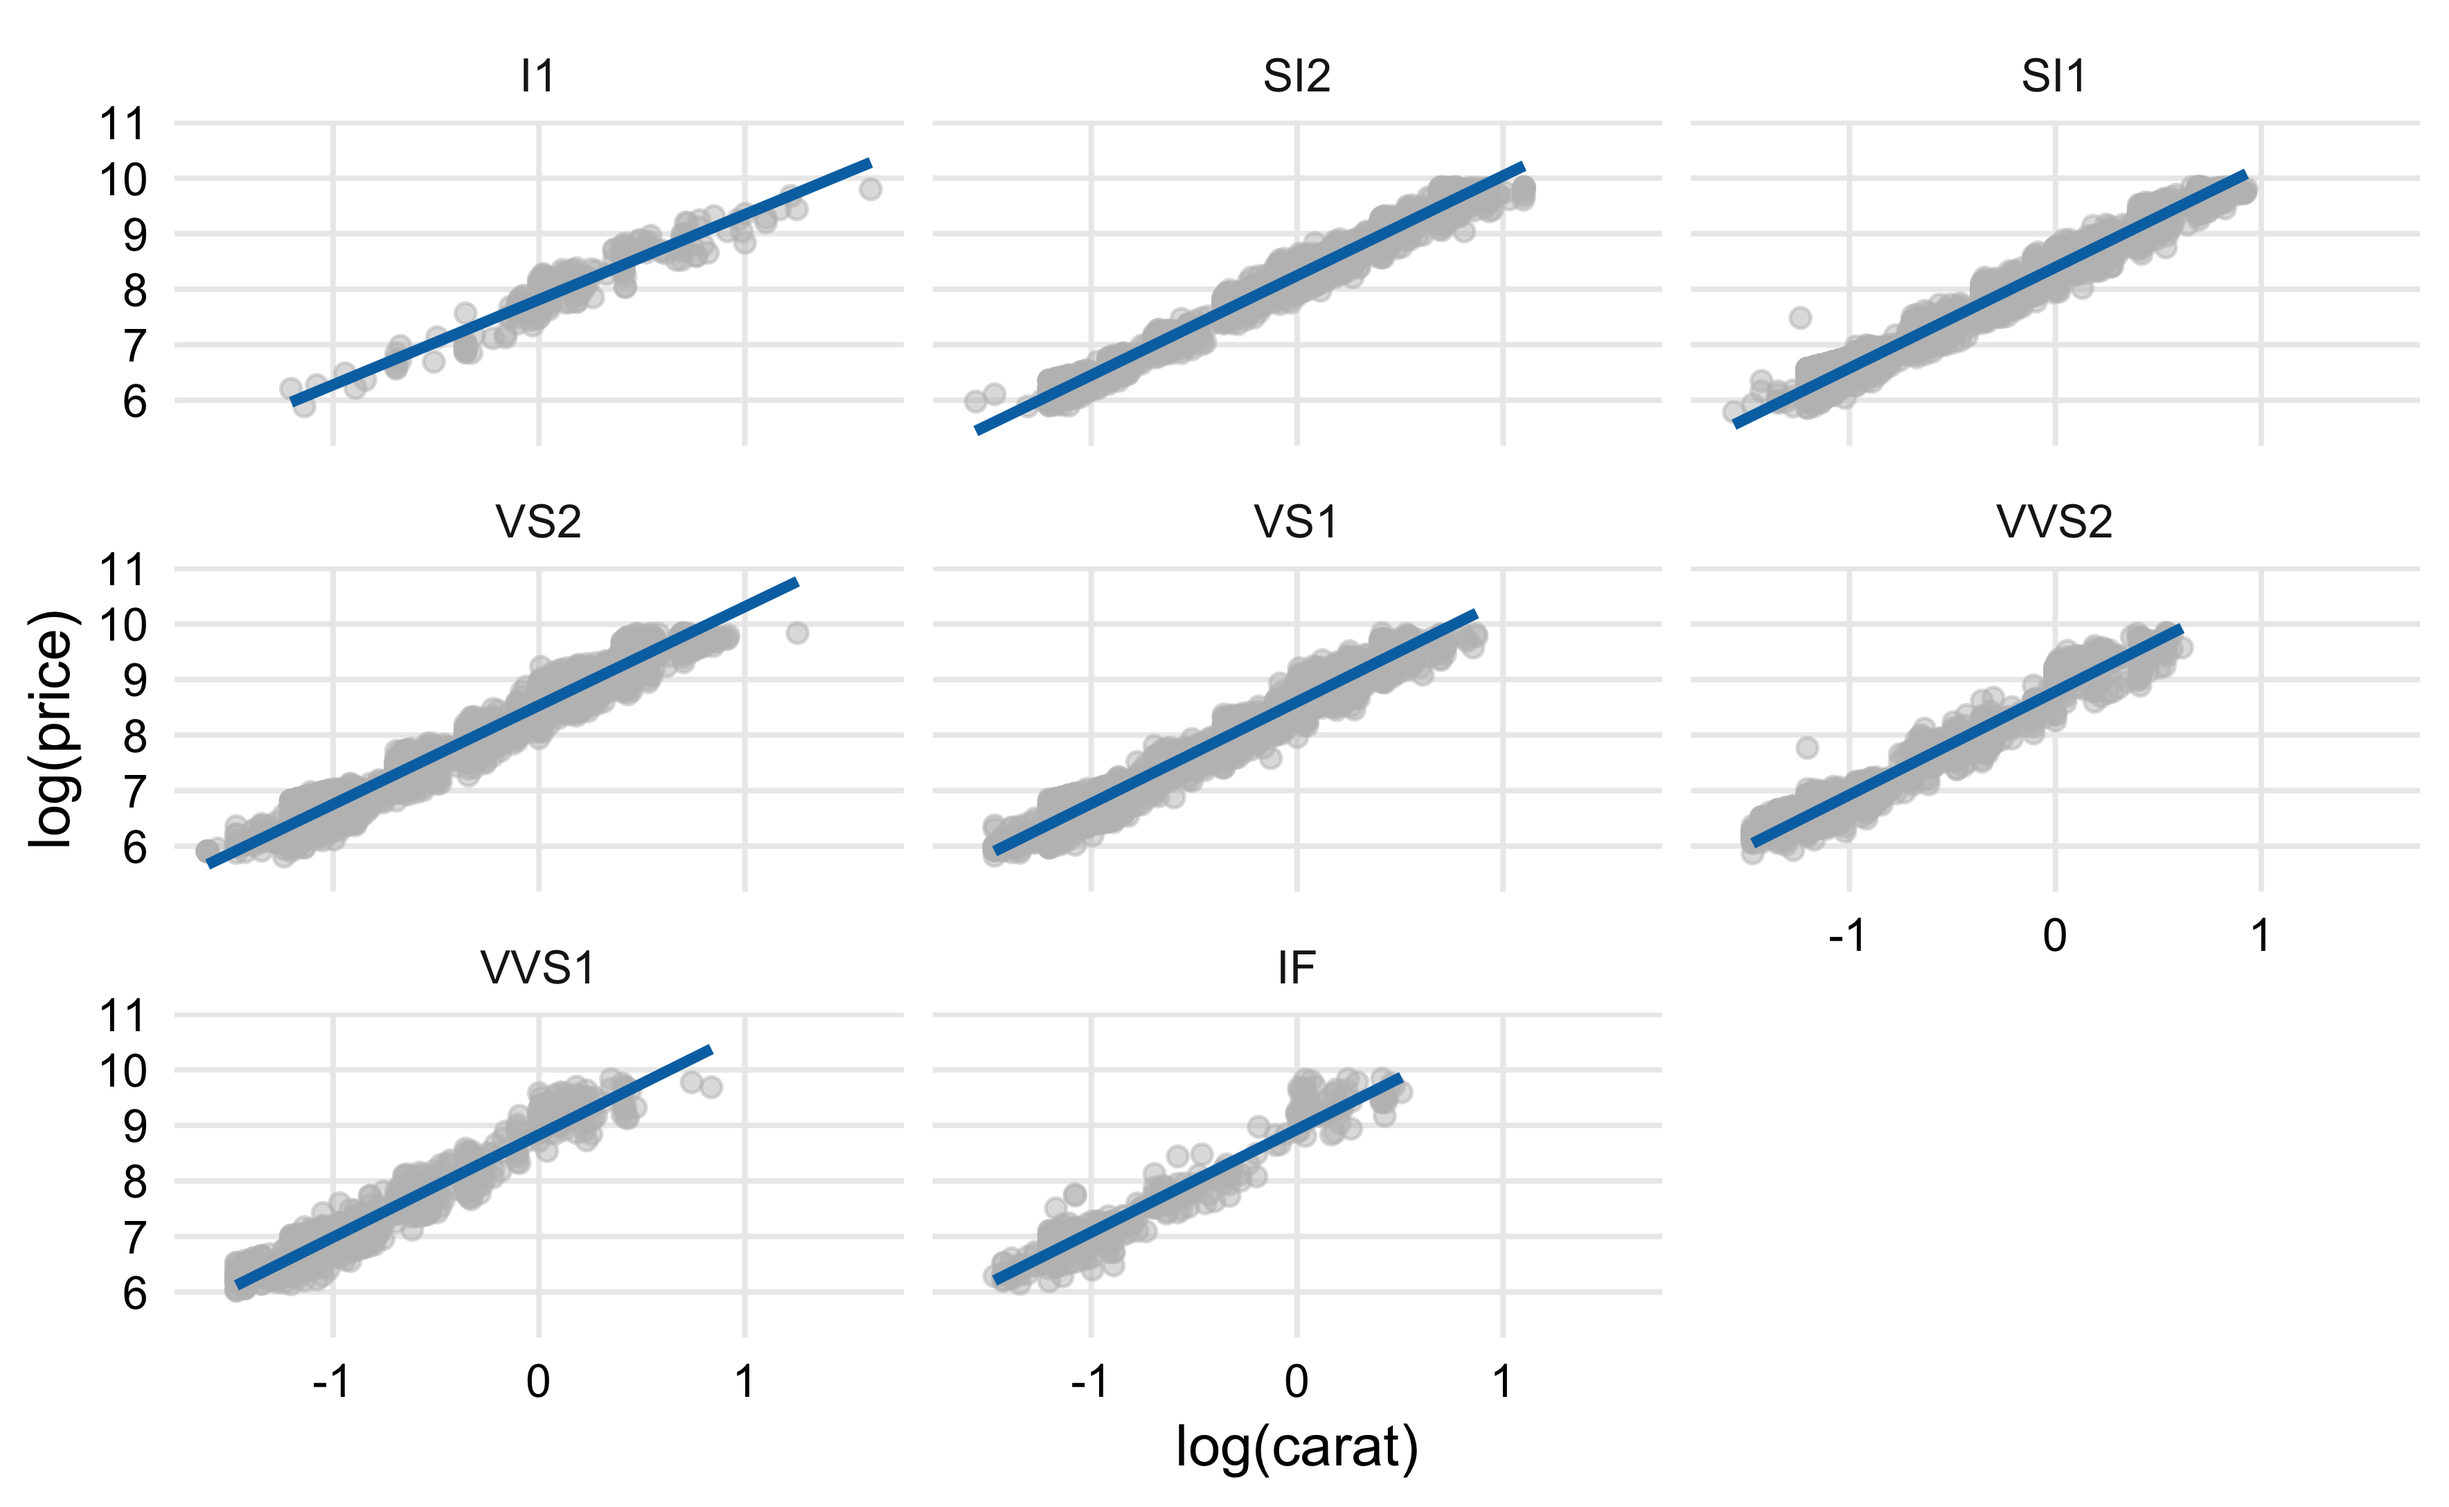
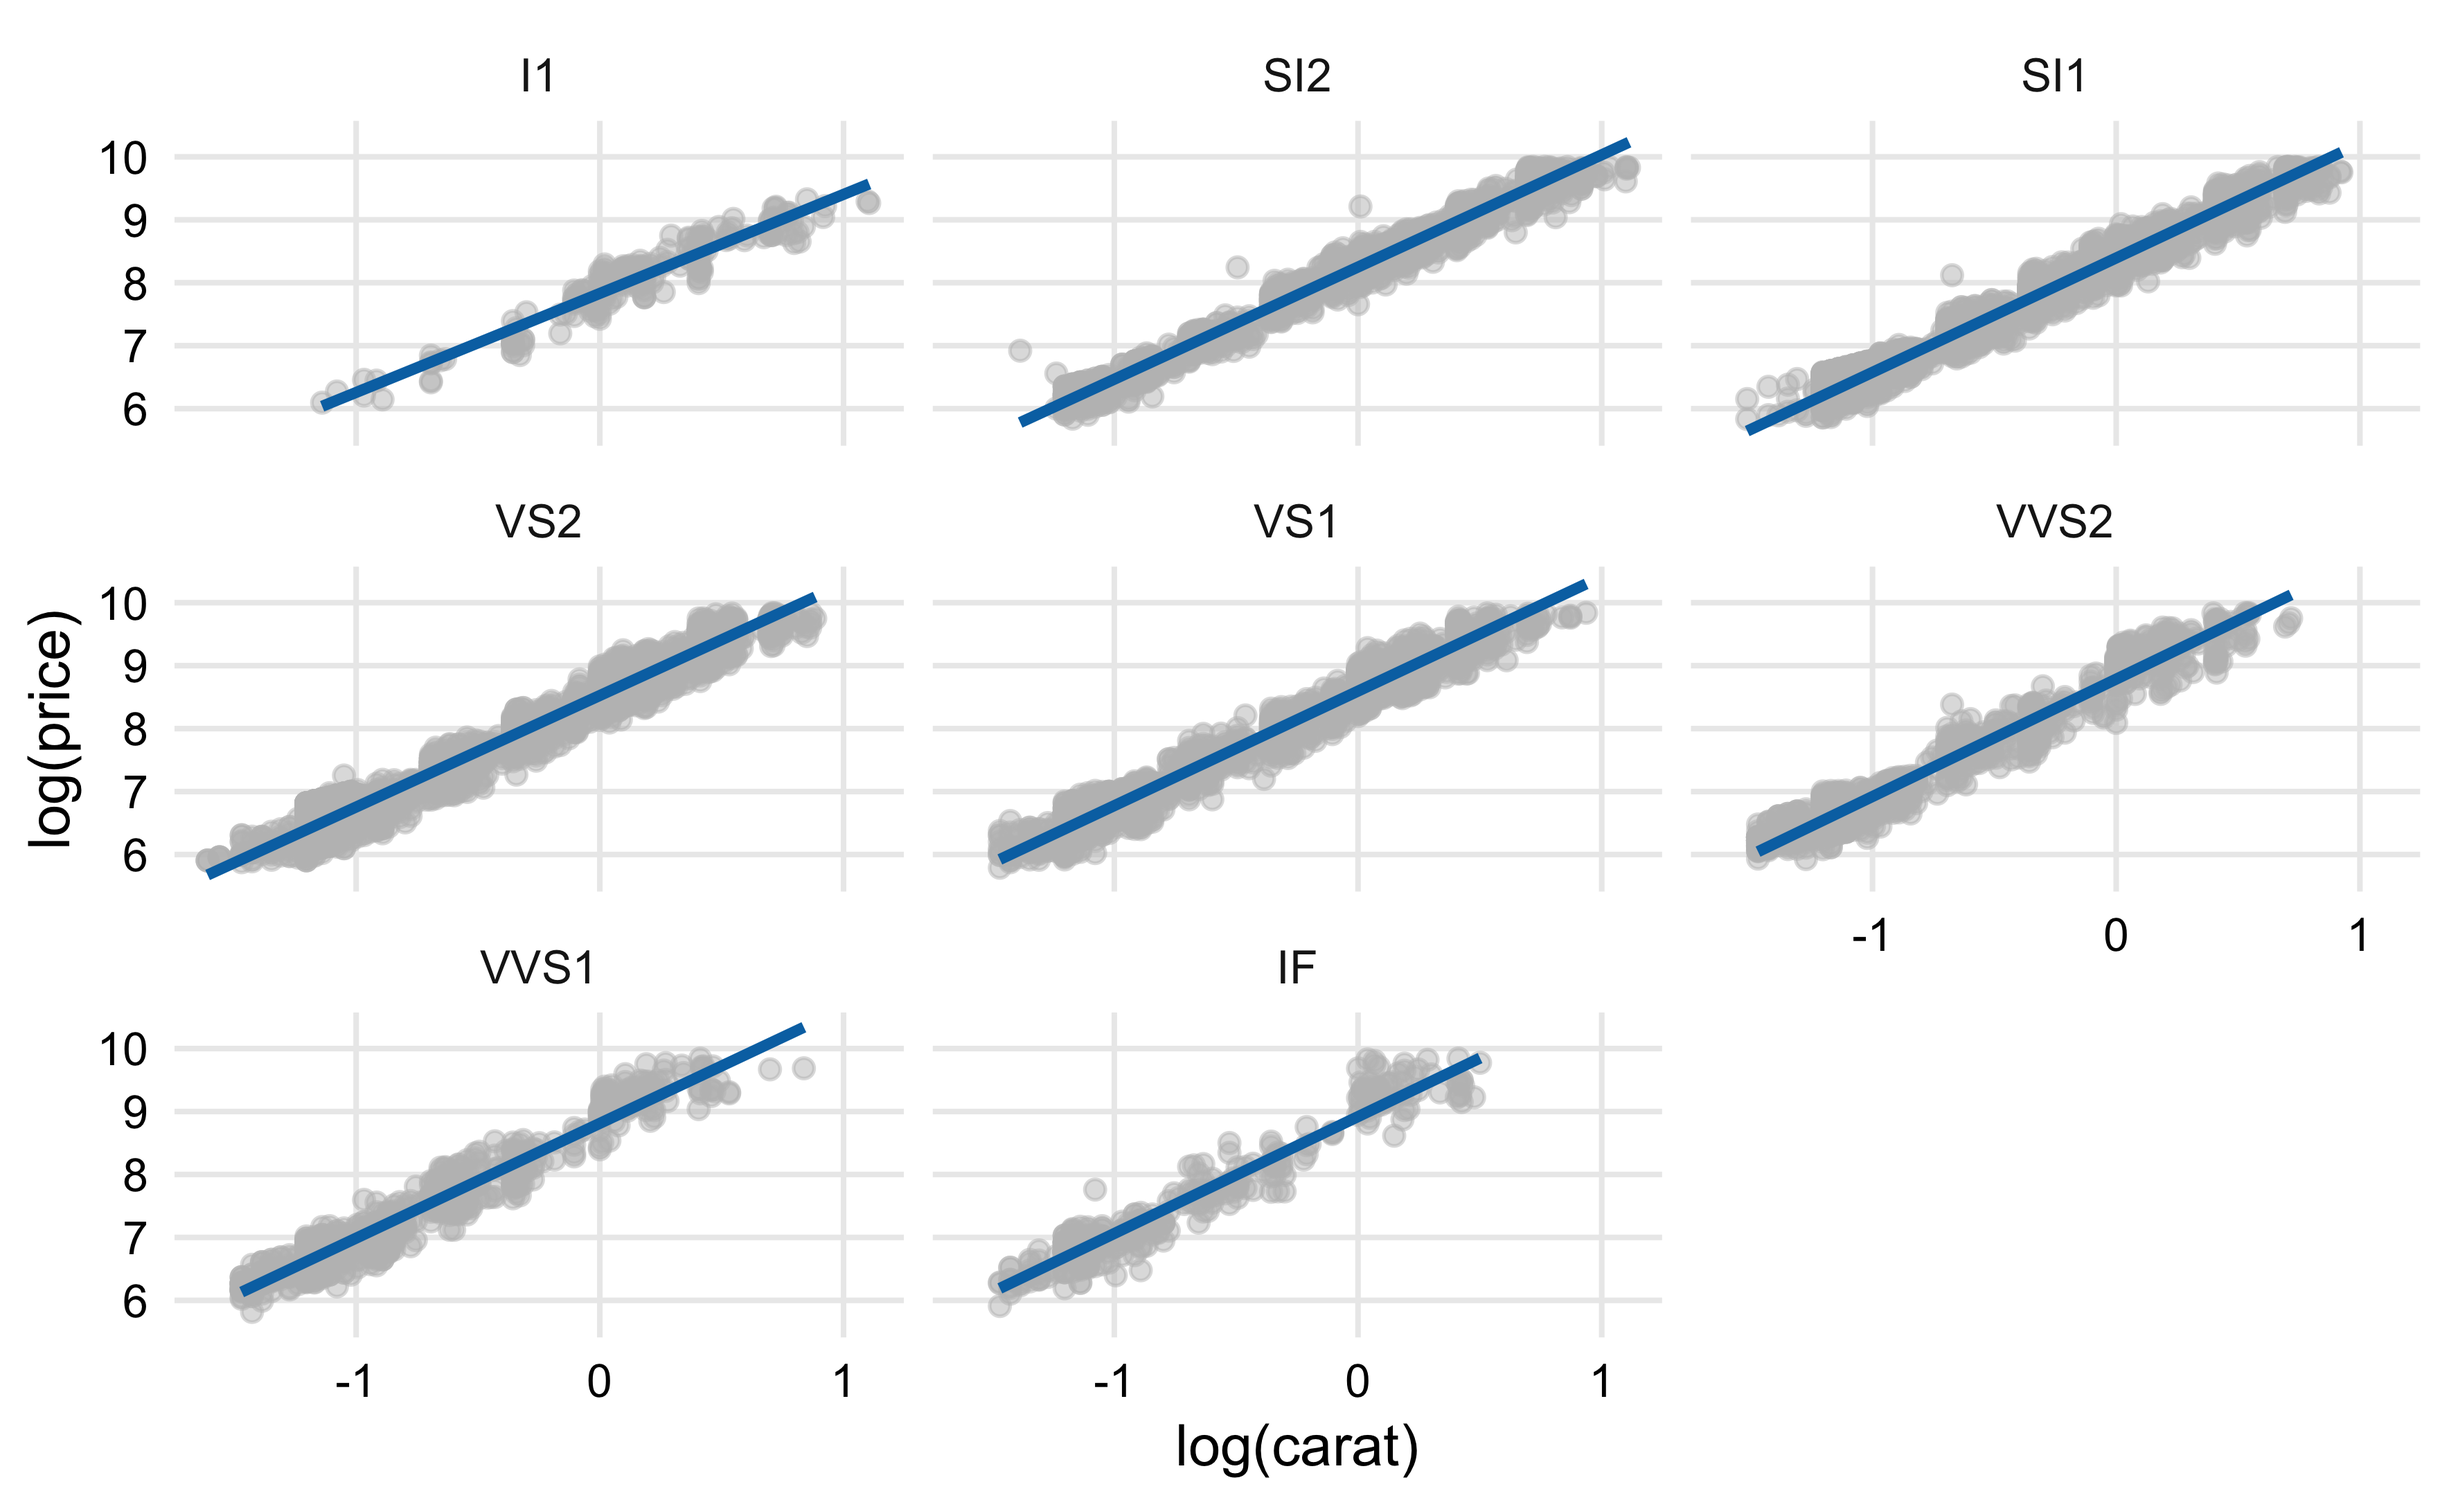
説明を微修正

diff --git a/docs/posts/2019-01-01-test/index.html b/docs/posts/2019-01-01-test/index.html
@@ -1534,7 +1534,7 @@ df_result2 %&gt;%
 </div>
 </div>
 <p><code>I1</code>だけは係数が小さくなっており、その他はほとんど同じ係数です。 どうやらと透明度が最低ランクの場合は、他のランクと比べてカラット数が価格に与える影響は小さいようです。</p>
-<p>散布図も確認すると、確かに<code>I1</code>のみ傾きが緩やかになっていることが見て取れます。</p>
+<p>散布図も確認すると、確かに<code>I1</code>のみ傾きが少し緩やかになっているような気がします。</p>
 <div class="layout-chunk" data-layout="l-body">
 <pre class="r"><code>
 df %&gt;% 
